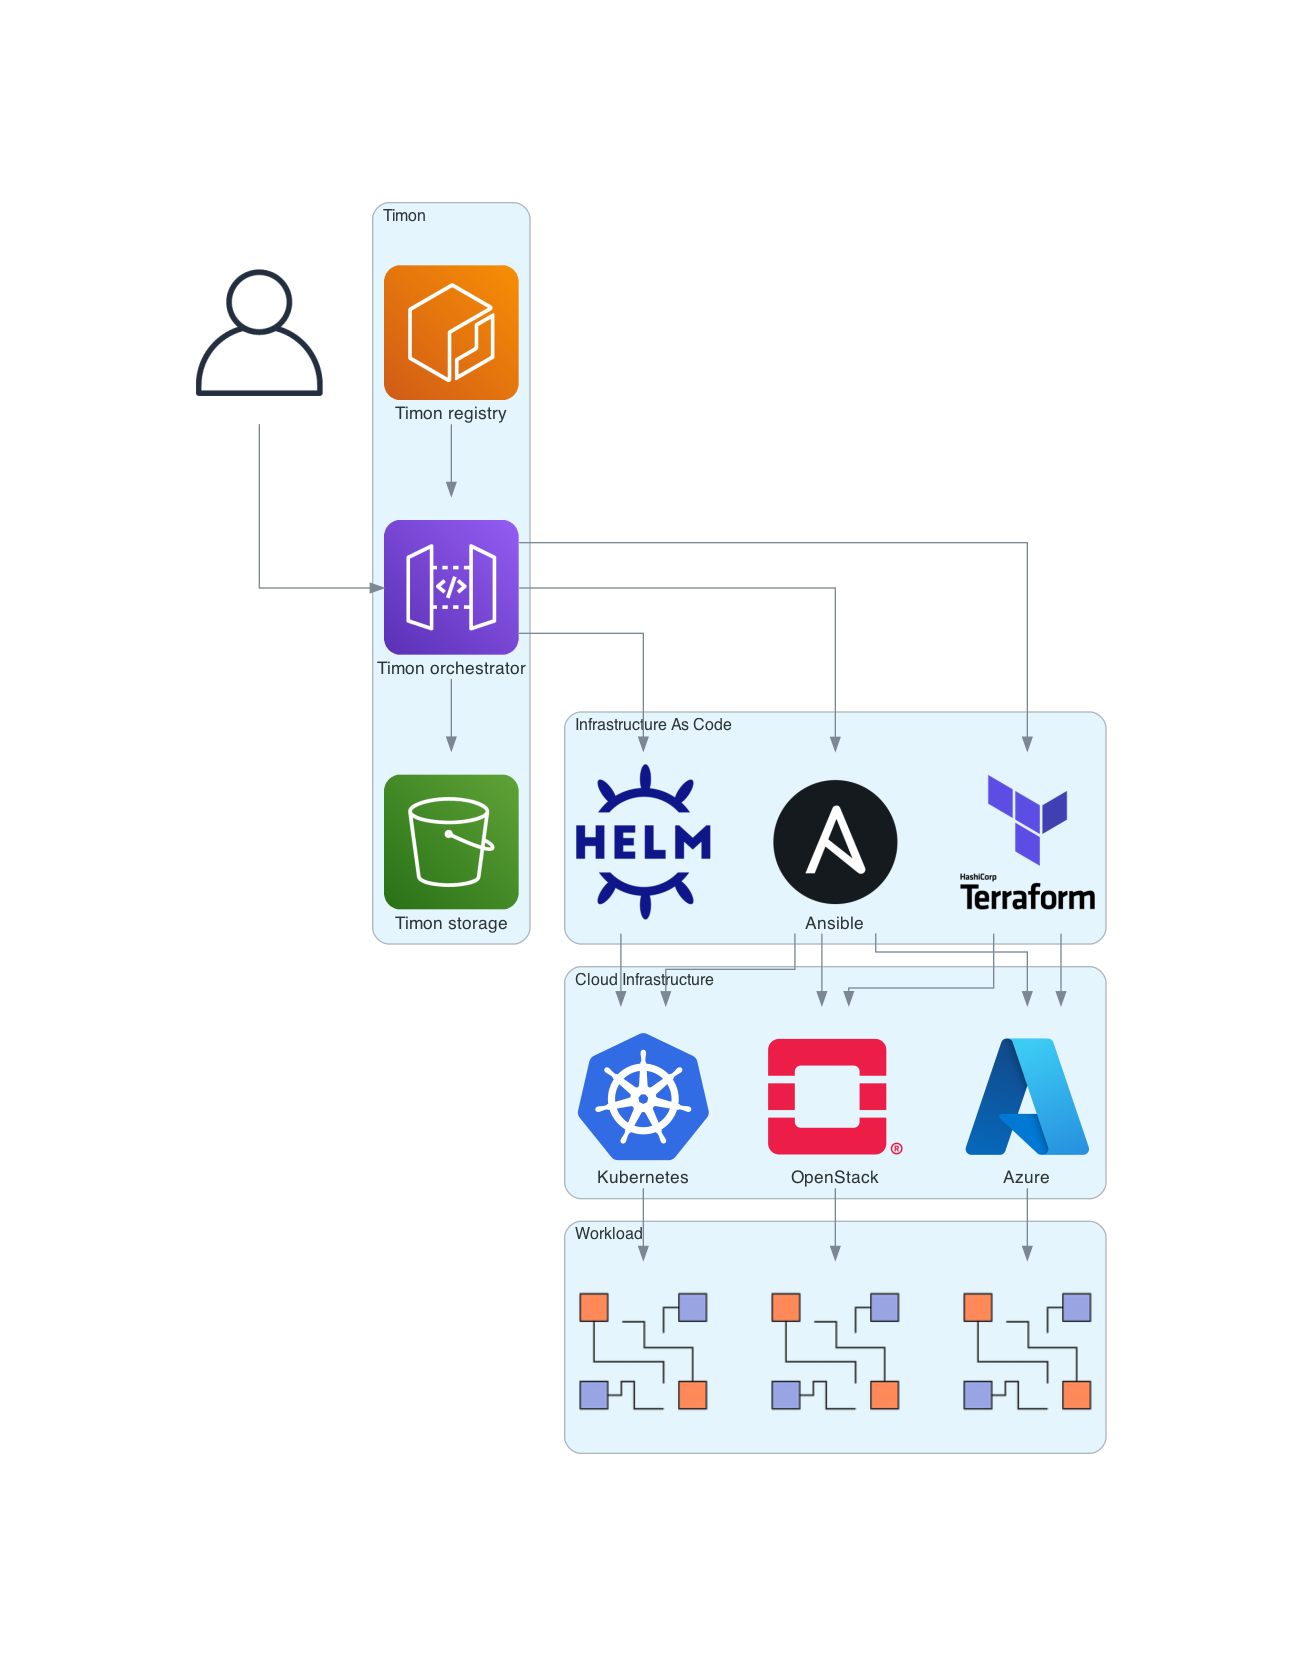
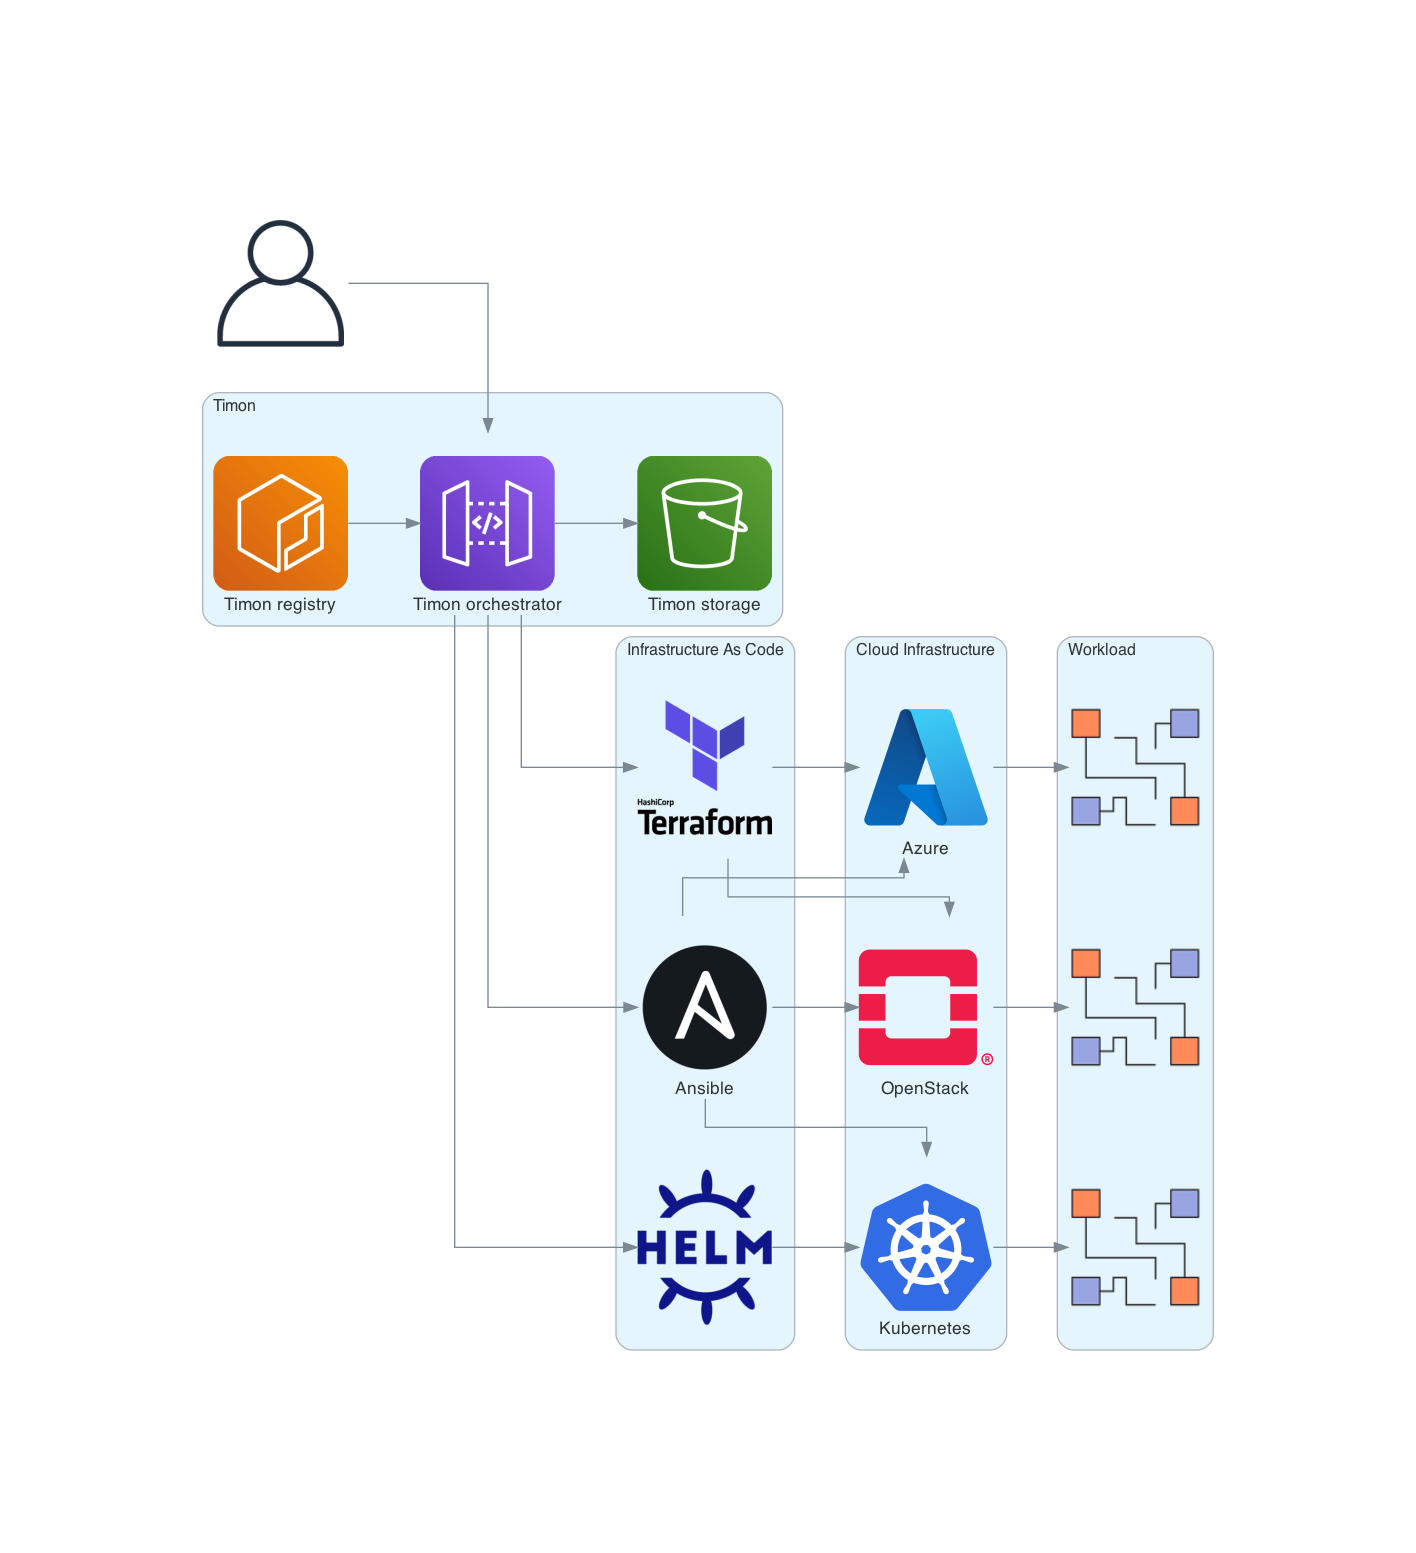
Add script to generate the overview image

Changed region(s): [[0.1222, 0.1236, 0.8556, 0.8963]]

diff --git a/source/images/overview.py b/source/images/overview.py
@@ -1,0 +1,52 @@
+from diagrams import Cluster, Diagram
+from diagrams.aws.general import User
+from diagrams.aws.compute import ECR
+from diagrams.aws.network import APIGateway
+from diagrams.aws.storage import S3
+from diagrams.custom import Custom
+from diagrams.k8s.ecosystem import Helm
+from diagrams.onprem.iac import Ansible, Terraform
+
+
+with Diagram(filename="overview"):
+    user = User()
+
+    with Cluster("Workload"):
+        infrastructure_1 = Custom("", "logos/diagrams.png")
+        infrastructure_2 = Custom("", "logos/diagrams.png")
+        infrastructure_3 = Custom("", "logos/diagrams.png")
+
+    with Cluster("Timon"):
+        timon = APIGateway("Timon orchestrator")
+        storage = S3("Timon storage")
+        registry = ECR("Timon registry")
+
+    with Cluster("Infrastructure As Code"):
+        ansible = Ansible("Ansible")
+        helm = Helm("")
+        terraform = Terraform("")
+
+    with Cluster("Cloud Infrastructure"):
+        azure = Custom("Azure", "logos/azure.png")
+        k8s = Custom("Kubernetes", "logos/k8s.png")
+        openstack = Custom("OpenStack", "logos/openstack.png")
+
+    user >> timon
+
+    timon >> ansible
+    timon >> helm
+    timon >> terraform
+    timon >> storage
+
+    registry >> timon
+
+    ansible >> azure
+    ansible >> k8s
+    ansible >> openstack
+    helm >> k8s
+    terraform >> azure
+    terraform >> openstack
+
+    azure >> infrastructure_1
+    k8s >> infrastructure_2
+    openstack >> infrastructure_3
